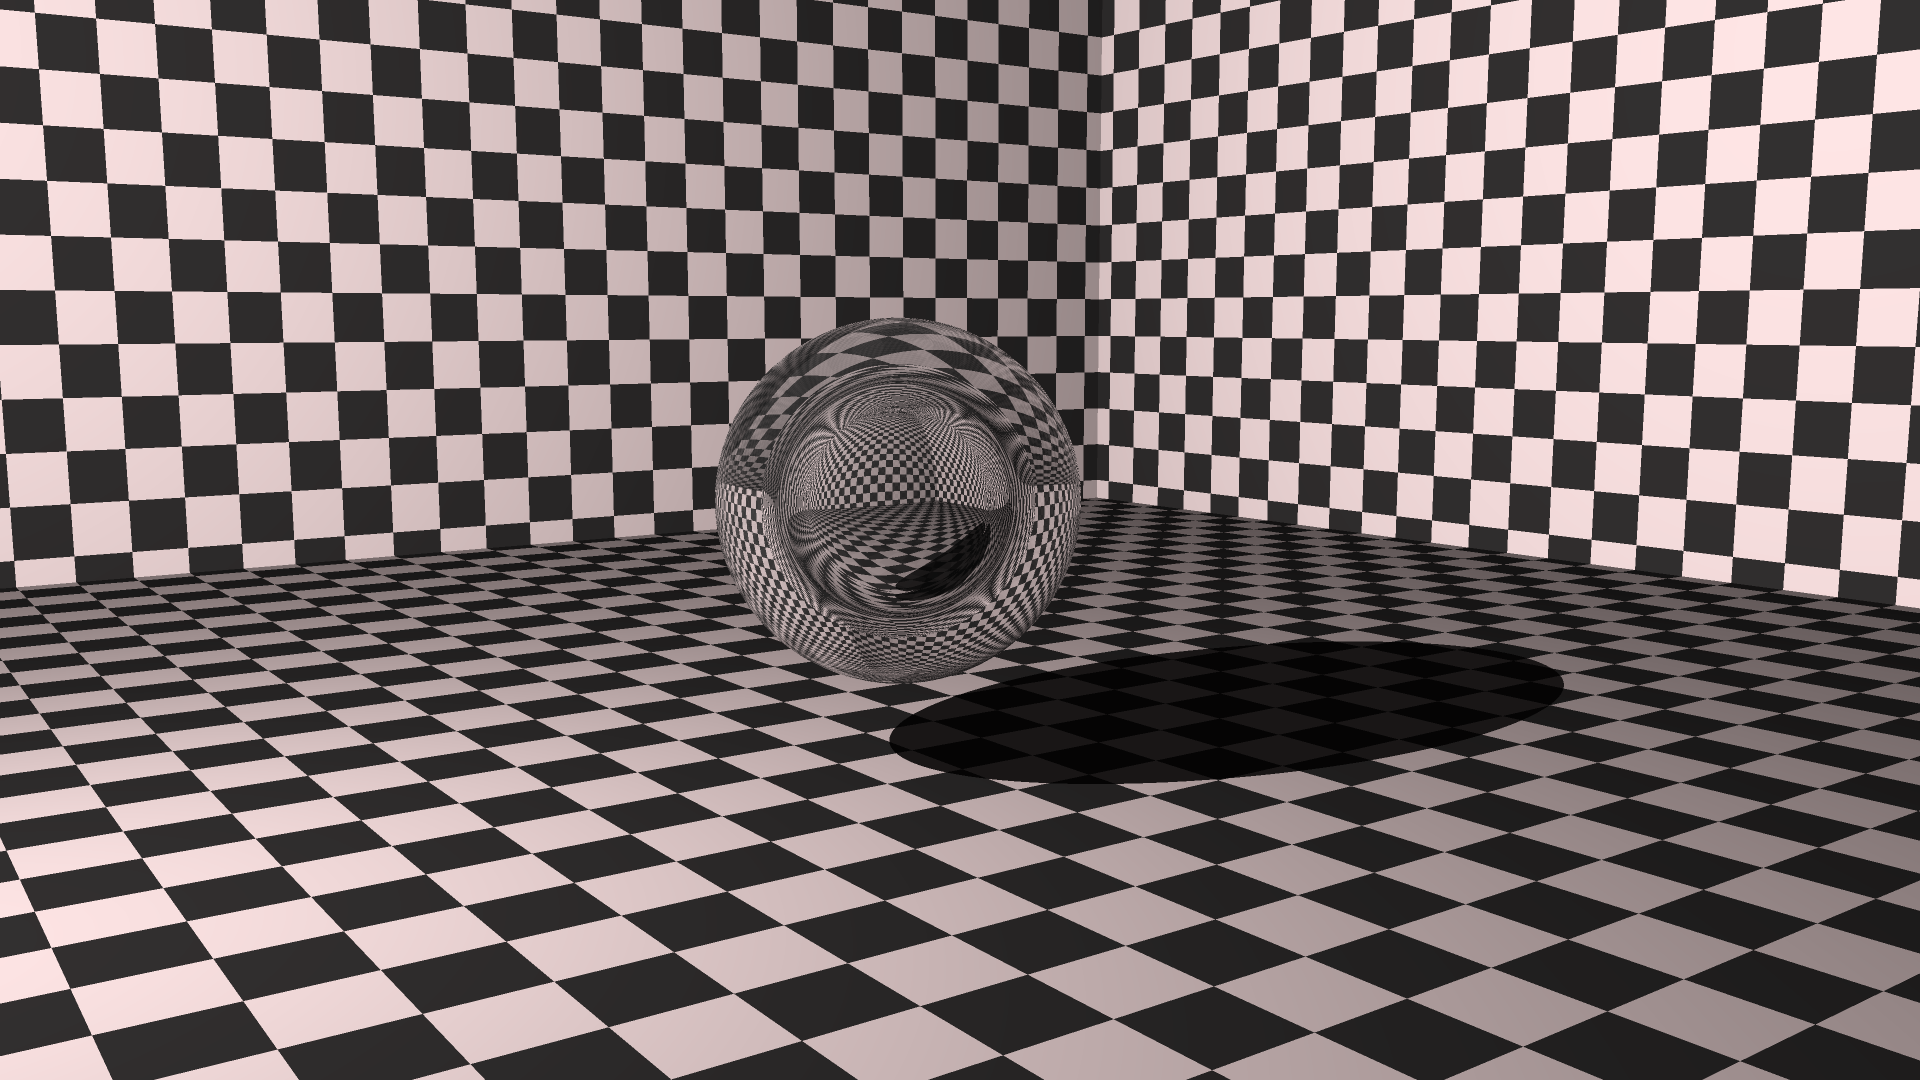
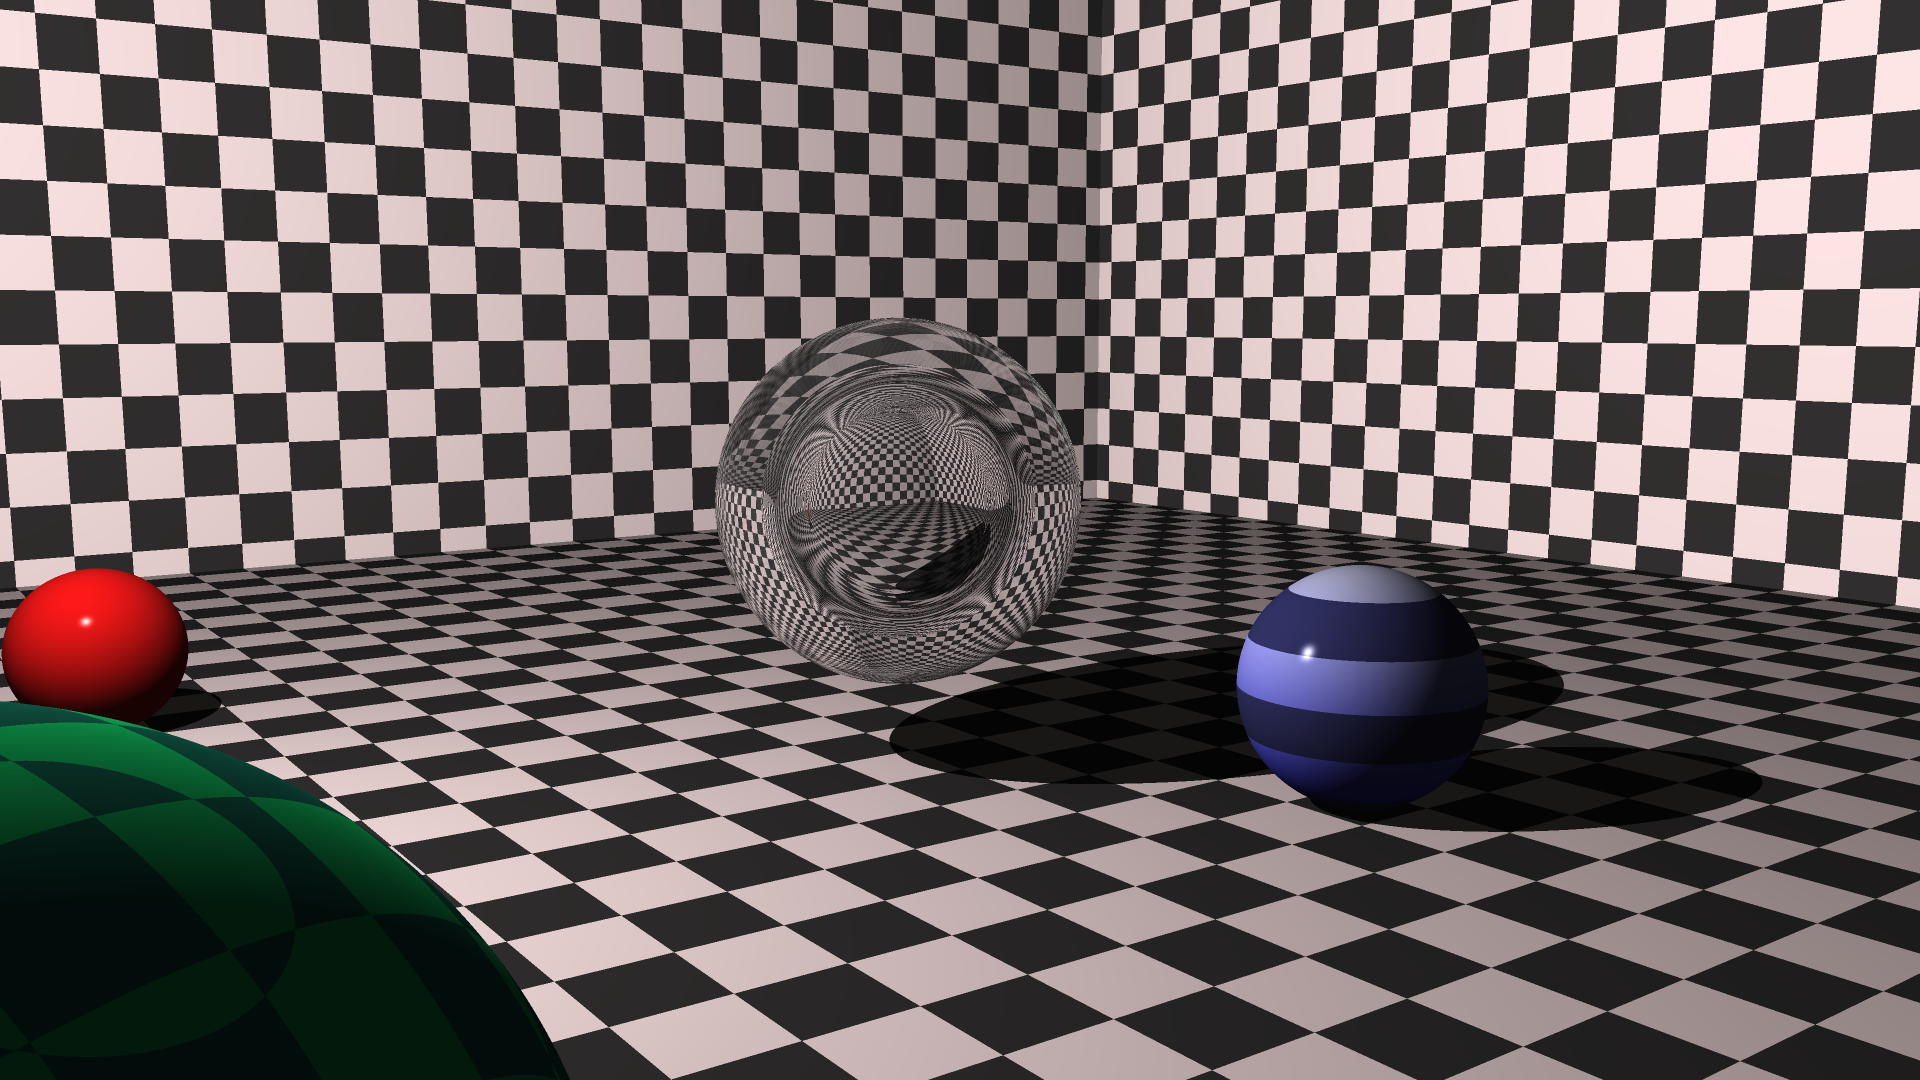
Fix refraction artifacts

Changed region(s): [[0.0, 0.5194, 0.3125, 1.0], [0.625, 0.5194, 0.9062, 0.7944]]

diff --git a/renderer/hit_test.go b/renderer/hit_test.go
@@ -1,0 +1,144 @@
+package renderer
+
+import (
+	"fmt"
+	"testing"
+
+	"github.com/Henelik/tricaster/tuple"
+
+	"github.com/Henelik/tricaster/matrix"
+
+	"github.com/stretchr/testify/assert"
+)
+
+func TestRemovePrimitiveFromArr(t *testing.T) {
+	s1 := NewSphere(nil, nil)
+	s2 := NewSphere(nil, nil)
+	s3 := NewSphere(nil, nil)
+
+	testCases := []struct {
+		name     string
+		item     Primitive
+		arr      []Primitive
+		wantArr  []Primitive
+		wantBool bool
+	}{
+		{
+			name:     "empty array",
+			item:     s1,
+			arr:      []Primitive{},
+			wantArr:  []Primitive{},
+			wantBool: false,
+		},
+		{
+			name:     "item not in array",
+			item:     s1,
+			arr:      []Primitive{s2, s3},
+			wantArr:  []Primitive{s2, s3},
+			wantBool: false,
+		},
+		{
+			name:     "item at beginning of array",
+			item:     s1,
+			arr:      []Primitive{s1, s2},
+			wantArr:  []Primitive{s2},
+			wantBool: true,
+		},
+		{
+			name:     "item at end of array",
+			item:     s1,
+			arr:      []Primitive{s2, s1},
+			wantArr:  []Primitive{s2},
+			wantBool: true,
+		},
+		{
+			name:     "item in middle of array",
+			item:     s1,
+			arr:      []Primitive{s2, s1, s3},
+			wantArr:  []Primitive{s2, s3},
+			wantBool: true,
+		},
+	}
+	for _, tc := range testCases {
+		t.Run(tc.name, func(t *testing.T) {
+			gotArr, gotBool := removePrimitiveFromArr(tc.item, tc.arr)
+			assert.Equal(t, tc.wantArr, gotArr)
+			assert.Equal(t, tc.wantBool, gotBool)
+		})
+	}
+}
+
+func TestComputeRefractIOR(t *testing.T) {
+	a := NewSphere(
+		matrix.ScalingU(2),
+		Glass.Copy())
+	a.Mat.(*PhongMat).IOR = 1.5
+
+	b := NewSphere(
+		matrix.Translation(0, 0, -0.25),
+		Glass.Copy())
+	b.Mat.(*PhongMat).IOR = 2.0
+
+	c := NewSphere(
+		matrix.Translation(0, 0, 0.25),
+		Glass.Copy())
+	c.Mat.(*PhongMat).IOR = 2.5
+
+	r := NewRay(
+		tuple.NewPoint(0, 0, -4),
+		tuple.NewVector(0, 0, 1))
+
+	xs := []Intersection{
+		{2, a},
+		{2.75, b},
+		{3.25, c},
+		{4.75, b},
+		{5.25, c},
+		{6, a},
+	}
+
+	testCases := []struct {
+		index  int
+		wantN1 float64
+		wantN2 float64
+	}{
+		{
+			index:  0,
+			wantN1: 1.0,
+			wantN2: 1.5,
+		},
+		{
+			index:  1,
+			wantN1: 1.5,
+			wantN2: 2.0,
+		},
+		{
+			index:  2,
+			wantN1: 2.0,
+			wantN2: 2.5,
+		},
+		{
+			index:  3,
+			wantN1: 2.5,
+			wantN2: 2.5,
+		},
+		{
+			index:  4,
+			wantN1: 2.5,
+			wantN2: 1.5,
+		},
+		{
+			index:  5,
+			wantN1: 1.5,
+			wantN2: 1.0,
+		},
+	}
+	for _, tc := range testCases {
+		name := fmt.Sprintf("%v,%v,%v", tc.index, tc.wantN1, tc.wantN2)
+		t.Run(name, func(t *testing.T) {
+			h := xs[tc.index].ToHit(r, xs)
+			assert.Equal(t, tc.wantN1, h.N1)
+			assert.Equal(t, tc.wantN2, h.N2)
+		})
+	}
+}

diff --git a/renderer/hit.go b/renderer/hit.go
@@ -53,7 +53,7 @@ func (i *Intersection) ToHit(r *Ray, inters []Intersection) *Hit {
 	h.UnderP = h.Pos.Sub(h.NormalV.Mult(util.Epsilon * 1000.0))
 
 	h.Inters = inters
-	h.N1, h.N2 = ComputeRefractIOR(h, inters)
+	ComputeRefractIOR(h)
 
 	return h
 }
@@ -115,36 +115,34 @@ func (h *Hit) Schlick() float64 {
 	return r0 + (1-r0)*math.Pow(1-cos, 5)
 }
 
-func ComputeRefractIOR(h *Hit, inters []Intersection) (float64, float64) {
-	inters = SortI(inters)
-	containers := make([]Primitive, 0, len(inters))
-	var n1, n2 float64
-	for _, inter := range inters {
+func ComputeRefractIOR(h *Hit) {
+	containers := make([]Primitive, 0, len(h.Inters))
+	var removed bool
+	for _, inter := range h.Inters {
 		if h.T == inter.T && h.P == inter.P {
 			if len(containers) == 0 {
-				n1 = 1
+				h.N1 = 1
 			} else {
-				m := inters[len(containers)-1].P.(Primitive).GetMaterial().(*PhongMat)
-				n1 = m.IOR
+				h.N1 = containers[len(containers)-1].GetMaterial().(*PhongMat).IOR
 			}
 		}
-		var removed bool
+
+		// if this object is in the containers, remove it.  Otherwise, append it.
 		containers, removed = removePrimitiveFromArr(inter.P, containers)
 		if !removed {
 			containers = append(containers, inter.P.(Primitive))
 		}
+
 		if h.T == inter.T && h.P == inter.P {
 			if len(containers) == 0 {
-				n2 = 1
+				h.N2 = 1
 			} else {
-				m := inters[len(containers)-1].P.(Primitive).GetMaterial().(*PhongMat)
-				n2 = m.IOR
+				h.N2 = containers[len(containers)-1].GetMaterial().(*PhongMat).IOR
 			}
-			return n1, n2
+			return
 		}
 	}
 	log.Fatal("ComputeRefractIOR: Hit was not included in the intersections!")
-	return 0, 0
 }
 
 func removePrimitiveFromArr(item Primitive, arr []Primitive) ([]Primitive, bool) {

diff --git a/cmd/main.go b/cmd/main.go
@@ -469,15 +469,14 @@ func refractionScene() {
 			Pattern:      nil,
 		})
 
-	/*middle := renderer.NewSphere(
-		matrix.Translation(-10, -8, 2).Mult(matrix.Scaling(2, 2, 2)),
+	middle := renderer.NewSphere(
+		matrix.Translation(-10, -10, 2).Mult(matrix.Scaling(2, 2, 2)),
 		&renderer.PhongMat{
 			Ambient:   0.1,
 			Diffuse:   0.9,
 			Specular:  0.0,
 			Shininess: 10,
 			// Reflectivity: .01,
-			IOR:   1,
 			Color: color.NewColor(0.1, 1, 0.5),
 			Pattern: renderer.NewCheckerPattern3D(
 				matrix.Compose(
@@ -496,7 +495,6 @@ func refractionScene() {
 			Specular:  0.9,
 			Shininess: 200,
 			// Reflectivity: .05,
-			IOR:   1,
 			Color: color.NewColor(1, 0.1, 0.1),
 		})
 	right := renderer.NewSphere(
@@ -507,7 +505,6 @@ func refractionScene() {
 			Specular:  0.9,
 			Shininess: 200,
 			// Reflectivity: .025,
-			IOR:   1,
 			Color: color.NewColor(0.2, 0.2, 1),
 			Pattern: renderer.NewStripePattern(
 				matrix.Compose(
@@ -524,7 +521,7 @@ func refractionScene() {
 					renderer.SolidPat(0.2, 0.2, 1),
 				),
 				renderer.SolidPat(0.2, 0.2, 0.4)),
-		})*/
+		})
 
 	w := &renderer.World{
 		Geometry: []renderer.Primitive{
@@ -536,9 +533,9 @@ func refractionScene() {
 			brWall,
 			glassBall,
 			airBall,
-			// middle,
-			// right,
-			// left,
+			middle,
+			right,
+			left,
 		},
 		Light: &renderer.PointLight{
 			Pos:   tuple.NewPoint(0, -10, 10),

diff --git a/renderer/world.go b/renderer/world.go
@@ -91,6 +91,7 @@ func (w *World) ReflectedColor(h *Hit, remainingBounce int) *color.Color {
 	return color.Black
 }
 
+// RefractedColor handles refraction ray culling and finds the next color on the light path
 func (w *World) RefractedColor(h *Hit, remainingBounce int) *color.Color {
 	if remainingBounce <= 0 {
 		return color.Black
